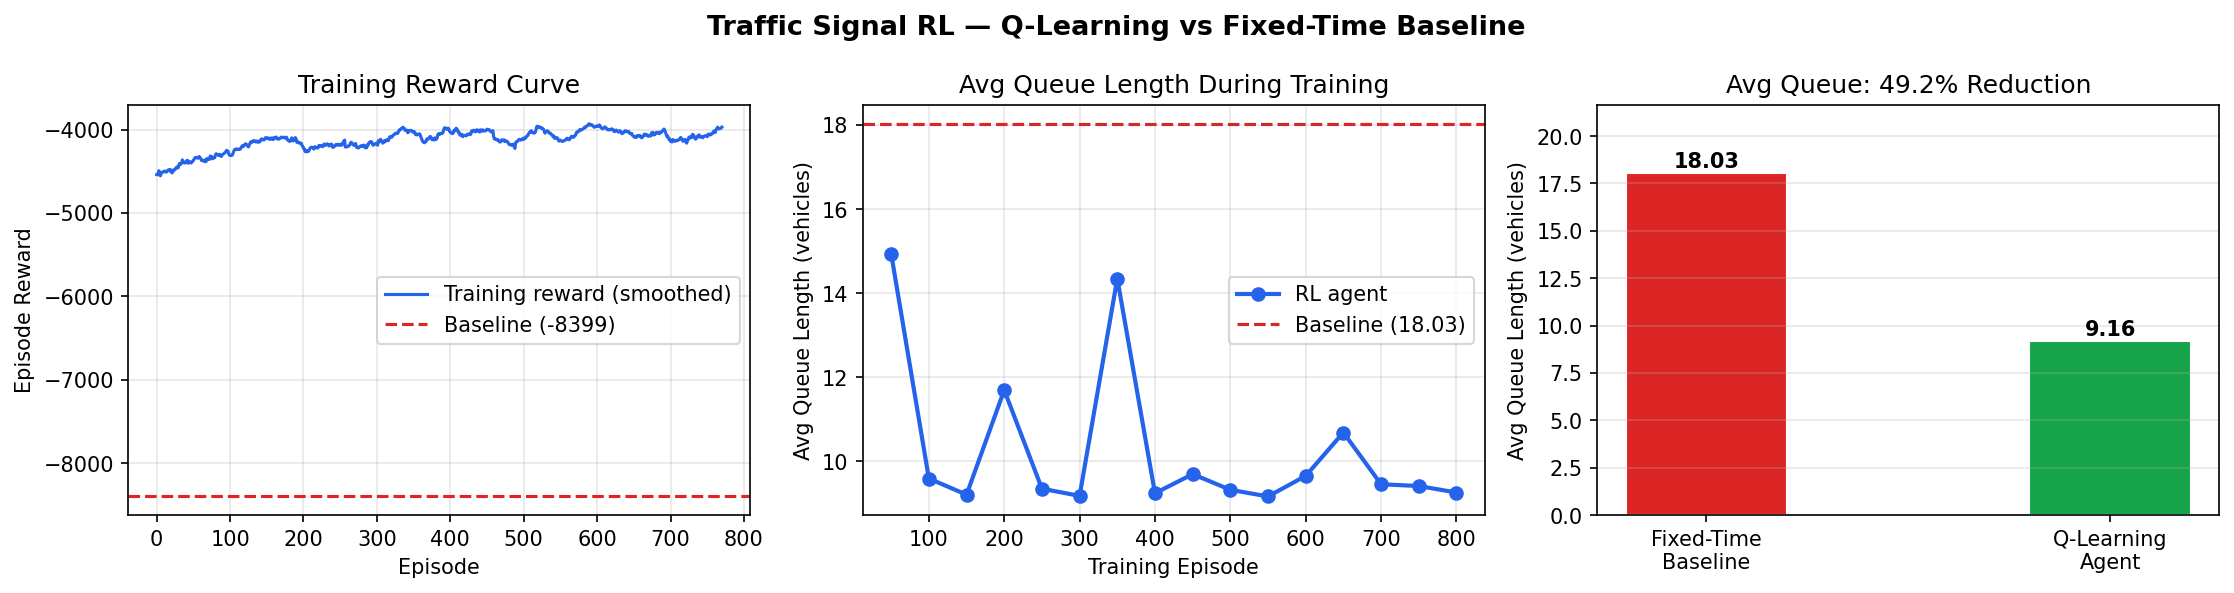
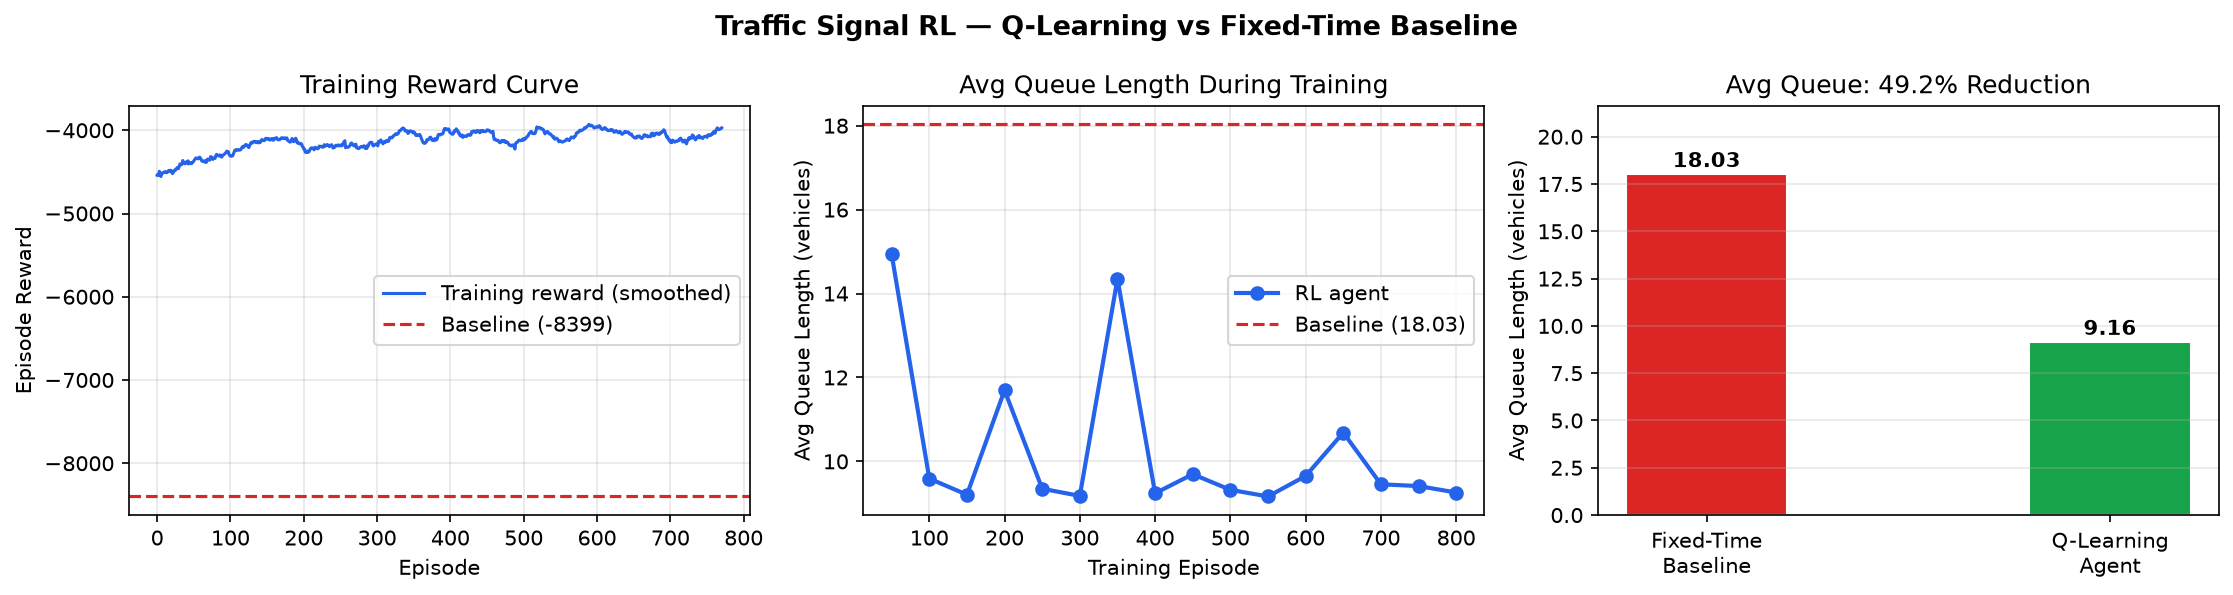
Add Streamlit live traffic simulation dashboard

diff --git a/streamlit_app.py b/streamlit_app.py
@@ -1,0 +1,221 @@
+
+import streamlit as st
+import numpy as np
+import pandas as pd
+import time
+
+from traffic_env import TrafficEnv, LANES, PHASES
+from q_agent import QLearningAgent
+from baseline import fixed_time_action
+
+st.set_page_config(
+    page_title="Adaptive Traffic Signal Control",
+    page_icon="🚦",
+    layout="wide"
+)
+
+st.title("🚦 Adaptive Traffic Signal Control")
+st.caption("Comparing Q-learning with a fixed-time traffic signal controller")
+
+# ---------------- LOAD TRAINED AGENT ----------------
+
+@st.cache_resource
+def load_agent():
+    agent = QLearningAgent()
+    agent.load("q_table.pkl")
+    agent.epsilon = 0
+    return agent
+
+try:
+    agent = load_agent()
+    model_loaded = True
+except Exception as e:
+    agent = None
+    model_loaded = False
+    st.error(f"Could not load Q-table: {e}")
+
+# ---------------- SIDEBAR ----------------
+
+st.sidebar.header("Simulation Settings")
+
+controller = st.sidebar.selectbox(
+    "Choose traffic controller",
+    ["Q-learning", "Fixed-time"]
+)
+
+simulation_steps = st.sidebar.slider(
+    "Simulation steps",
+    min_value=50,
+    max_value=500,
+    value=200,
+    step=50
+)
+
+run_simulation = st.sidebar.button(
+    "▶ Run Simulation",
+    type="primary"
+)
+
+# ---------------- INTERSECTION DISPLAY ----------------
+
+def display_intersection(queues, phase):
+    north_south_green = phase == 0
+
+    north_color = "🟢" if north_south_green else "🔴"
+    south_color = "🟢" if north_south_green else "🔴"
+    east_color = "🟢" if not north_south_green else "🔴"
+    west_color = "🟢" if not north_south_green else "🔴"
+
+    st.markdown(
+        f"""
+        <div style="background:#30343b; padding:22px;
+                    border-radius:12px; text-align:center;
+                    color:white;">
+            <div style="font-size:18px;">
+                {north_color} NORTH
+                <br>🚗 🚙 🛵
+                <br><b>Queue: {queues['north']}</b>
+            </div>
+            <div style="font-size:28px; margin:12px;">
+                ⬇
+            </div>
+            <div style="font-size:20px; padding:20px;
+                        background:#555b65; border-radius:8px;">
+                🚗  INTERSECTION  🚙
+            </div>
+            <div style="font-size:28px; margin:12px;">
+                ⬆
+            </div>
+            <div style="font-size:18px;">
+                {south_color} SOUTH
+                <br>🚗 🚙 🛵
+                <br><b>Queue: {queues['south']}</b>
+            </div>
+            <hr style="border-color:#777;">
+            <div>
+                {west_color} WEST: {queues['west']} vehicles
+                &nbsp;&nbsp;&nbsp;
+                {east_color} EAST: {queues['east']} vehicles
+            </div>
+        </div>
+        """,
+        unsafe_allow_html=True
+    )
+
+# ---------------- SIMULATION ----------------
+
+if run_simulation:
+
+    if controller == "Q-learning" and not model_loaded:
+        st.error("The trained Q-table could not be loaded.")
+        st.stop()
+
+    env = TrafficEnv()
+    obs, _ = env.reset(seed=42)
+
+    total_queue = 0
+    total_cleared = 0
+    queue_history = []
+    step_history = []
+
+    progress = st.progress(0)
+    status = st.empty()
+    intersection_area = st.empty()
+
+    for step in range(simulation_steps):
+
+        if controller == "Q-learning":
+            action = agent.select_action(obs)
+        else:
+            action = fixed_time_action(env.steps_in_phase)
+
+        obs, reward, terminated, truncated, info = env.step(action)
+
+        queues = info["queues"]
+        current_queue = sum(queues.values())
+
+        total_queue += current_queue
+        total_cleared = info["cleared"]
+
+        queue_history.append(current_queue)
+        step_history.append(step + 1)
+
+        with intersection_area.container():
+            display_intersection(queues, env.phase_idx)
+
+        status.write(
+            f"Step: {step + 1} / {simulation_steps} "
+            f"| Controller: {controller}"
+        )
+
+        progress.progress((step + 1) / simulation_steps)
+
+        if truncated or terminated:
+            break
+
+    # ---------------- RESULTS ----------------
+
+    average_queue = total_queue / len(queue_history)
+
+    st.success("Simulation completed!")
+
+    col1, col2, col3 = st.columns(3)
+
+    col1.metric(
+        "Average Queue Length",
+        f"{average_queue:.2f}"
+    )
+
+    col2.metric(
+        "Vehicles Cleared",
+        total_cleared
+    )
+
+    col3.metric(
+        "Simulation Steps",
+        len(queue_history)
+    )
+
+    st.subheader("Traffic Queue Over Time")
+
+    chart_data = pd.DataFrame({
+        "Step": step_history,
+        "Total Queue": queue_history
+    }).set_index("Step")
+
+    st.line_chart(chart_data)
+
+    st.subheader("Final Traffic Distribution")
+
+    final_queues = pd.DataFrame({
+        "Direction": list(queues.keys()),
+        "Vehicles Waiting": list(queues.values())
+    })
+
+    st.bar_chart(
+        final_queues.set_index("Direction")
+    )
+
+else:
+    st.info(
+        "Choose a controller from the sidebar and click "
+        "'Run Simulation' to begin."
+    )
+
+    st.subheader("How the controllers work")
+
+    col1, col2 = st.columns(2)
+
+    with col1:
+        st.markdown("### 🧠 Q-learning")
+        st.write(
+            "Uses the trained Q-table to decide whether "
+            "to keep or switch the current signal phase."
+        )
+
+    with col2:
+        st.markdown("### ⏱ Fixed-time")
+        st.write(
+            "Switches the signal according to a fixed "
+            "15-step cycle, independent of traffic queues."
+        )
